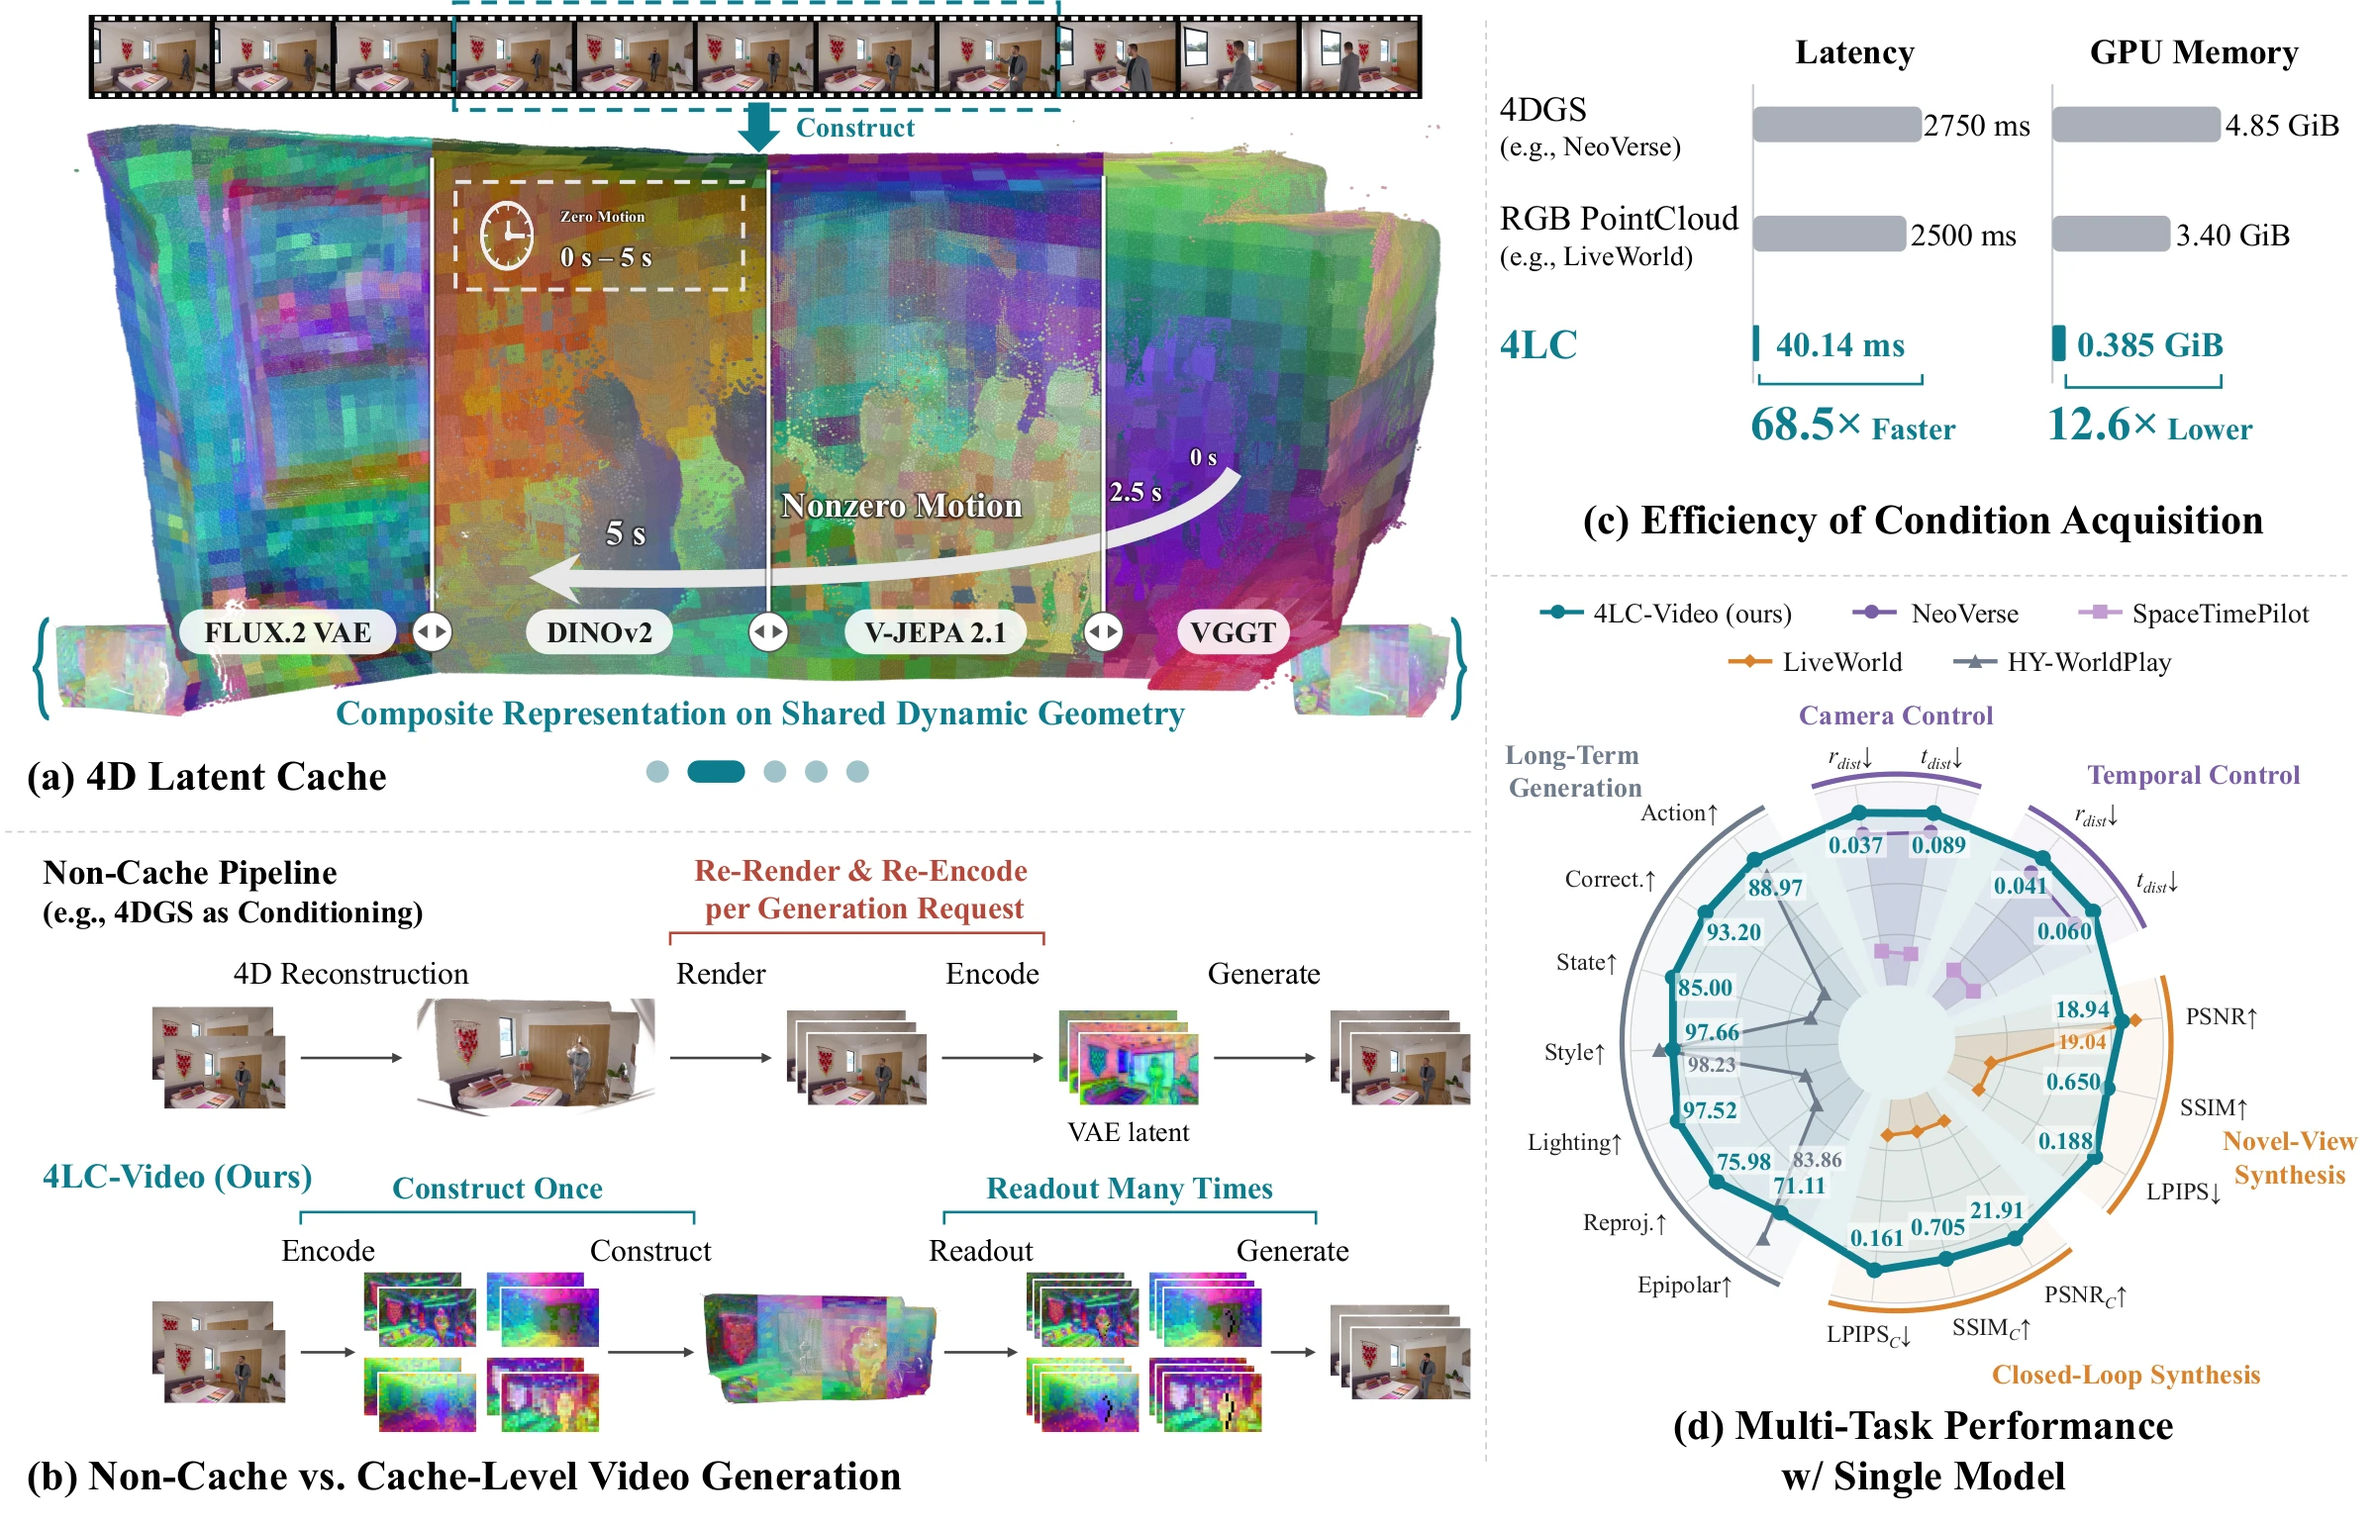
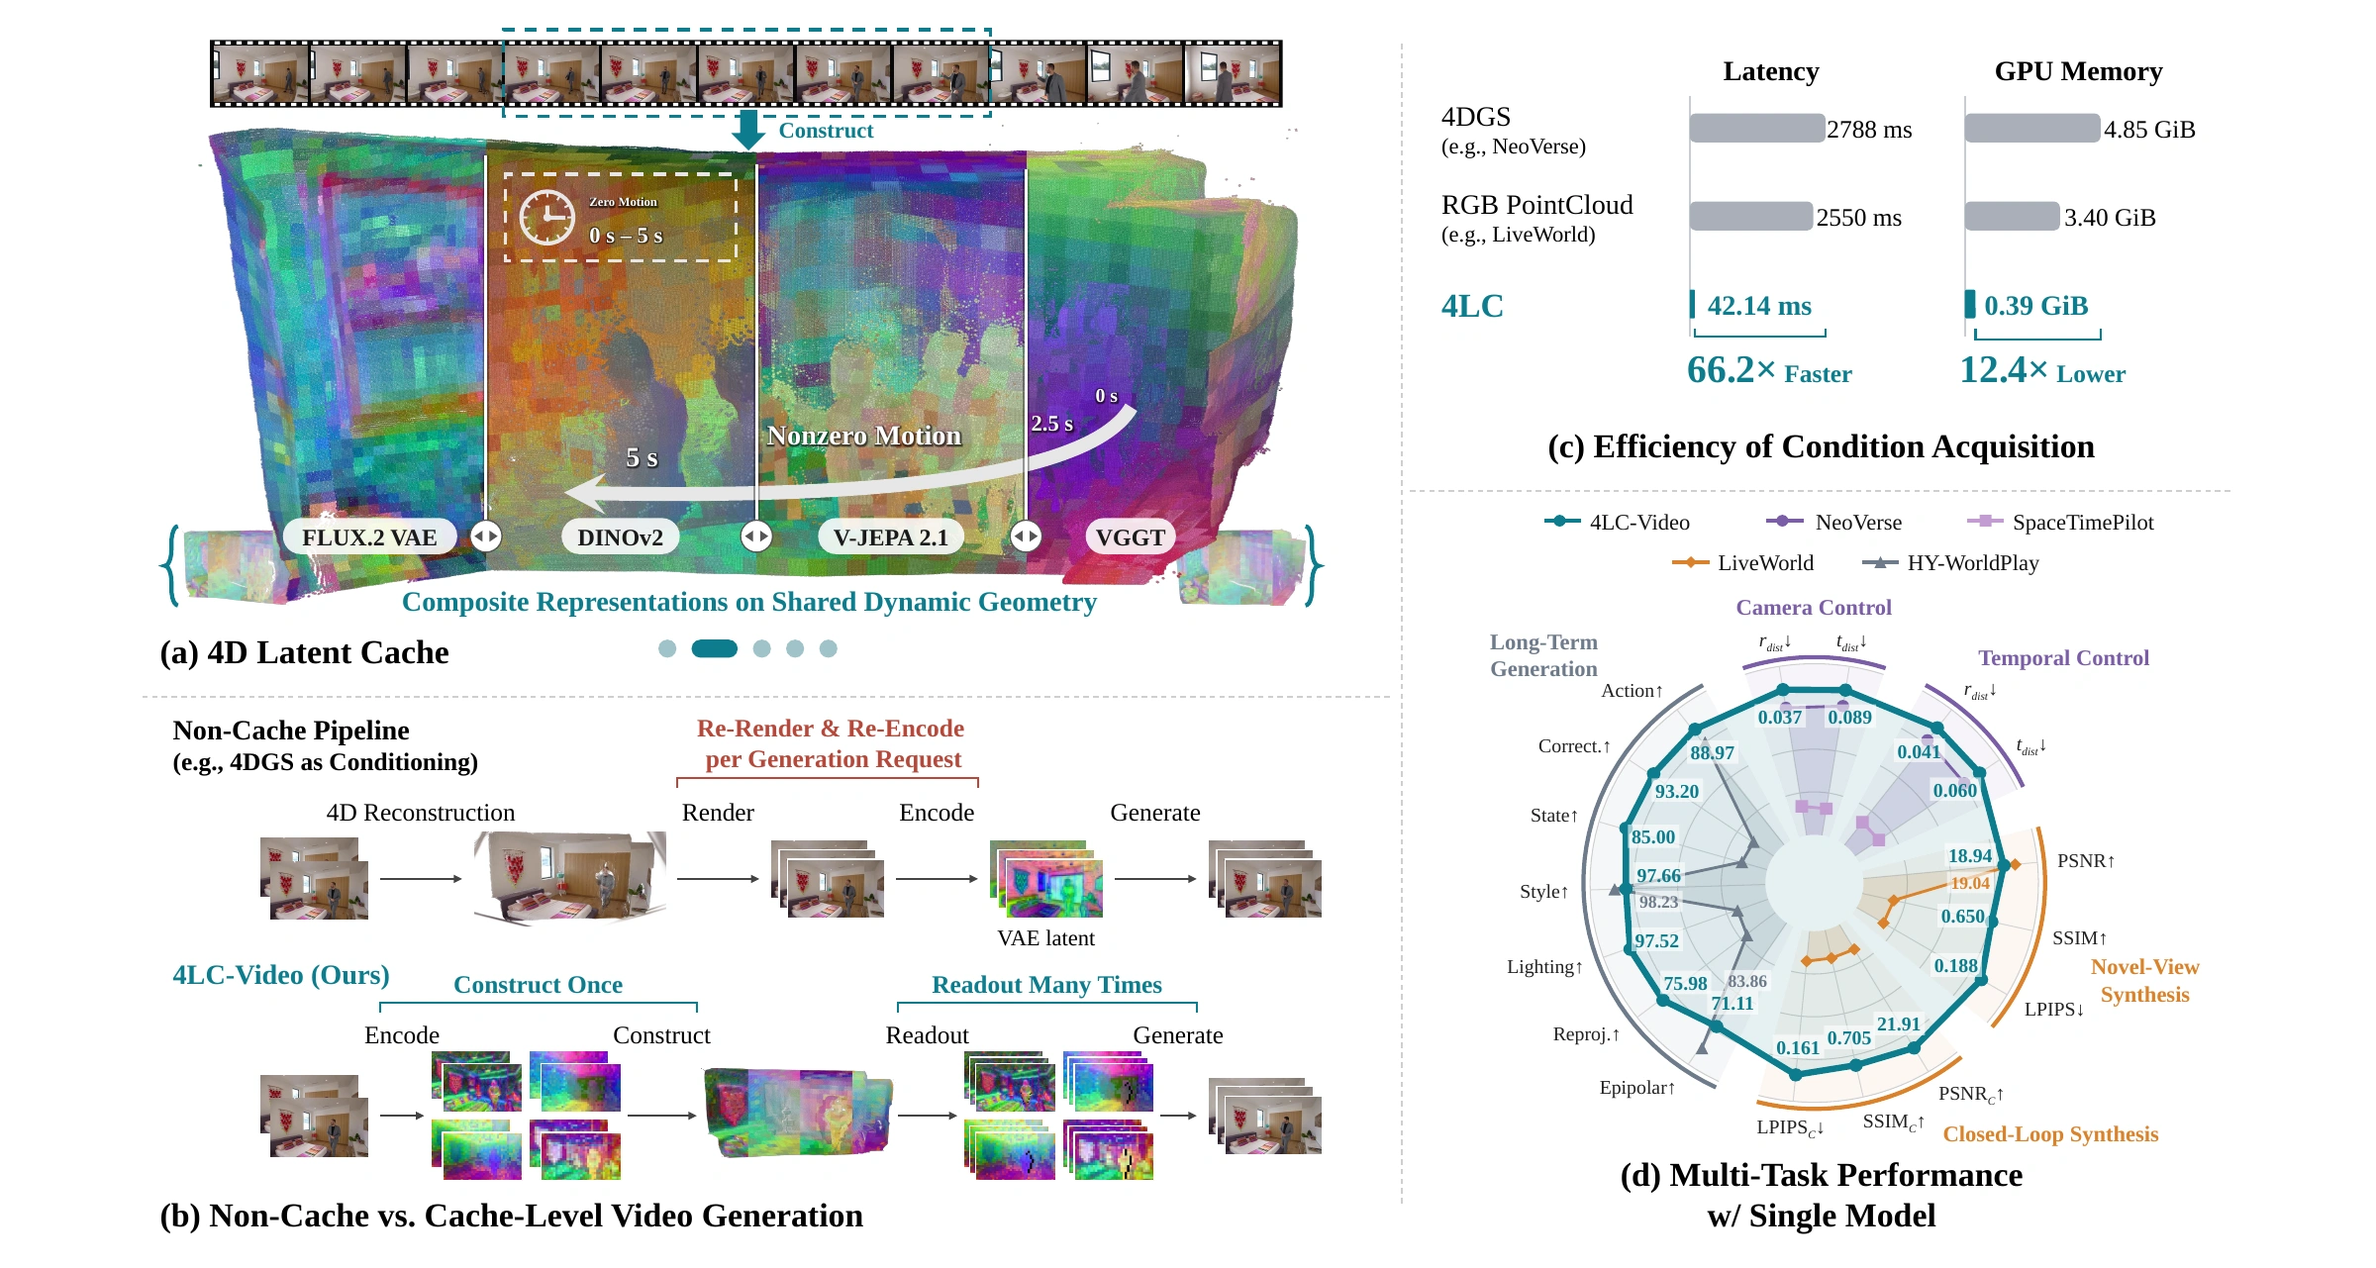
Update 4LC teaser and remove efficiency section

diff --git a/4LC/index.html b/4LC/index.html
@@ -8,7 +8,7 @@
 <link rel="preconnect" href="https://fonts.googleapis.com">
 <link rel="preconnect" href="https://fonts.gstatic.com" crossorigin>
 <link href="https://fonts.googleapis.com/css2?family=DM+Sans:opsz,wght@9..40,400..700&display=swap" rel="stylesheet">
-<link rel="stylesheet" href="style.css?v=1014143000">
+<link rel="stylesheet" href="style.css?v=1126">
 <link rel="icon" type="image/svg+xml" href="4lc.svg">
 </head>
 <body>
@@ -79,27 +79,6 @@
   </div>
 
   <div class="comparison part band" data-part="Comparison">
-  <section id="cost" data-nav="Condition Acquisition">
-    <h2>Condition Acquisition</h2>
-    <div class="cost">
-      <div class="accum">
-        <p class="cost-head">One segment: share of end-to-end generation time spent on condition acquisition</p>
-        <div class="bar-row"><span>NeoVerse</span><div class="bar"><i class="cond" style="--w:14.9%"></i><i class="rest" style="--w:85.1%"></i></div><span>2.75 s of 18.47 s</span></div>
-        <div class="bar-row"><span>4LC</span><div class="bar"><i class="cond" style="--w:0.25%"></i><i class="rest" style="--w:87.4%"></i></div><span>0.04 s of 16.19 s</span></div>
-        <p class="legend"><i class="cond"></i>Condition acquisition<i class="rest"></i>Rest of generation</p>
-      </div>
-      <p class="fact"><strong><small>up to</small><span class="num">68.5</span>&times;</strong>faster condition acquisition</p>
-      <p class="fact"><strong><span class="num">12.6</span>&times;</strong>lower peak GPU memory</p>
-      <div class="accum wide-row">
-        <label class="cost-head" for="segments">Long-horizon: condition acquisition adds up over <output id="seg-n">8</output> segments</label>
-        <input type="range" id="segments" min="1" max="30" value="8" aria-label="Number of segments">
-        <div class="bar-row"><span>NeoVerse</span><div class="bar"><i class="cond" id="acc-nv"></i></div><span id="acc-nv-n"></span></div>
-        <div class="bar-row"><span>4LC</span><div class="bar"><i class="cond" id="acc-ours"></i></div><span id="acc-ours-n"></span></div>
-      </div>
-      <p class="note">All timings: 81-frame segments at 560&times;336 on the same Wan2.1 backbone.</p>
-    </div>
-  </section>
-
   <section id="s-compare" data-nav="Comparison with Baseline">
     <h2>Comparison with Baseline</h2>
     <div class="carousel" id="compare"></div>
@@ -111,7 +90,7 @@
     <h2>Abstract</h2>
     <p class="abstract">For video generation in dynamic world modeling, observed static and dynamic content should be efficiently reused to provide conditions for repeated generation at different times and viewpoints. We introduce 4LC, a 4D latent cache with composite visual representations and a flexible spatiotemporal access interface. As a latent cache, 4LC directly reuses visual representations of static and dynamic content to provide generation conditions, avoiding per-request RGB rendering and re-encoding. Building on 4LC, a single 4LC-Video model handles camera control, temporal control, novel-view synthesis, scene revisits and long-term generation without task-specific fine-tuning.</p>
     <figure class="fig">
-      <img src="assets/method/Fig1-teaser.webp" width="2400" height="1543" loading="lazy" alt="Overview of 4LC: the cache, cache-level generation, condition-acquisition cost and multi-task results">
+      <img src="assets/method/Fig1-teaser.webp?v=1126" width="2400" height="1281" loading="lazy" alt="Overview of 4LC: the cache, cache-level generation, condition-acquisition cost and multi-task results">
       <figcaption><b>Overview of 4LC.</b> <b>(a)</b> Static and dynamic scene content is retained in multiple visual representations for reuse across time and viewpoint requests. <b>(b)</b> Non-cache pipelines render and re-encode a reconstructed scene for each request; 4LC encodes source observations once and reads out the cache for later requests. <b>(c)</b> With the same Wan2.1 VAE, 4LC needs less time and peak GPU memory to acquire conditions than 4DGS and RGB point clouds. <b>(d)</b> A single 4LC-Video model performs well across five video generation tasks.</figcaption>
     </figure>
   </section>
@@ -168,6 +147,6 @@
     <div id="credit-list"></div>
   </details>
 </footer>
-<script src="app.js?v=1014143000"></script>
+<script src="app.js?v=1126"></script>
 </body>
 </html>

diff --git a/4LC/style.css b/4LC/style.css
@@ -10,7 +10,6 @@
   --band: #f2f4f6;  /* grey sections; a hairline marks where each band starts and ends */
   --static: #7d97a8;
   --dynamic: #de933e;
-  --rest: #c5e1db;
   --col: 56rem;
 }
 * { box-sizing: border-box; }
@@ -171,31 +170,6 @@ section > .quad { margin-left: 50%; translate: -50% 0; }  /* wider than the text
 /* Long horizon */
 .long { display: grid; grid-template-columns: minmax(0, 1fr) minmax(0, 2fr); gap: .5rem; margin-bottom: 1rem; align-items: start; }
 
-/* Cost */
-.cost { display: grid; grid-template-columns: minmax(0, 2.2fr) auto auto; gap: 1.6rem 2.5rem; align-items: center; }
-.accum { margin: 0; }
-.accum.wide-row { grid-column: 1 / -1; margin-top: .6rem; }
-.cost-head { display: block; margin: 0 0 .7rem; font-weight: 500; font-size: .9375rem; }
-.accum input { display: block; }
-.accum label { display: block; font-weight: 500; margin-bottom: .3rem; font-size: .9375rem; }
-.accum input { width: min(22rem, 100%); accent-color: var(--brand); margin: 0 0 .8rem; }
-.accum .bar i { transition: width .3s ease; }
-.bar-row { display: grid; grid-template-columns: 5.5rem minmax(0, 1fr) 13rem; gap: .8rem; align-items: center; margin-bottom: .55rem; font-size: .9375rem; }
-.bar-row span:last-child { color: var(--muted); text-align: right; }
-.bar { height: .7rem; background: var(--soft); border-radius: 3px; overflow: hidden; }
-.bar { display: flex; }
-.bar i { display: block; height: 100%; width: var(--w); background: var(--dynamic); transition: width .3s ease; }
-.bar i.cond { min-width: 3px; }
-.bar i.rest { background: var(--rest); }
-.cost.pre .bar i { width: 0; }
-.cost.grow .bar i { transition: width 1.1s cubic-bezier(.2, .7, .1, 1); }
-.legend { margin: .3rem 0 0; color: var(--muted); font-size: .875rem; }
-.legend i { display: inline-block; width: .7em; height: .7em; background: var(--dynamic); border-radius: 2px; margin: 0 .4em 0 0; vertical-align: -.05em; }
-.legend i.rest { background: var(--rest); margin-left: 1.2em; }
-.cost .note { grid-column: 1 / -1; margin: 0; padding-top: 1rem; border-top: 1px solid var(--line); color: var(--muted); font-size: .875rem; }
-.fact { margin: 0; color: var(--muted); font-size: .9375rem; line-height: 1.3; }
-.fact strong { display: block; color: var(--ink); font-size: 2.4rem; font-weight: 600; letter-spacing: -.03em; line-height: 1.05; }
-
 /* Compare */
 .cmp-head { margin: 0 0 .4rem; font-size: 1rem; font-weight: 600; }
 .cmp-head.ours { color: var(--brand); }
@@ -225,10 +199,6 @@ footer p { margin: 0 0 1rem; }
   .grid.two, .mv, .long { grid-template-columns: 1fr; }
   .row.r4 { grid-template-columns: 1fr 1fr; }
   .row.r3 { grid-template-columns: 1fr; }
-  .cost { grid-template-columns: 1fr 1fr; gap: 1.5rem; }
-  .cost .accum { grid-column: 1 / -1; }
-  .bar-row { grid-template-columns: 4.5rem minmax(0, 1fr); }
-  .bar-row span:last-child { grid-column: 2; text-align: left; margin-top: -.3rem; }
 }
 
 /* Carousel: one example block per slide, neighbours peek in at the sides */
@@ -321,7 +291,6 @@ footer p { margin: 0 0 1rem; }
 video.montage { border-radius: 4px; background: #fff; }
 
 /* Inside grey bands */
-.band .bar { background: #e6e9ed; }
 .band video, .band .still { background: #e9ecef; }
 .band pre { background: #fff; }
 
@@ -422,7 +391,6 @@ h2 + .fig { margin-top: 1.6rem; }
 @media (max-width: 959px) {
   .duo-fig { order: -1; }
 }
-.fact strong small { font-size: .4em; font-weight: 500; color: var(--muted); margin-right: .3em; letter-spacing: 0; }
 
 /* Blocks a little wider than the text column (like the carousels): time columns, image wall */
 :root { --wide: min(64rem, calc(100vw - 2rem)); }

diff --git a/4LC/app.js b/4LC/app.js
@@ -349,19 +349,6 @@ fetch("content.json", { cache: "no-cache" }).then((r) => r.json()).then((c) => {
   // The main video waits on its first frame until the viewer presses play.
   if (!t.hidden) { t.muted = true; t.poster = bust(c.teaser.poster); t.src = bust(c.teaser.video); }
 
-  // Long-horizon: condition-acquisition time per segment from the paper (NeoVerse 2.75 s, 4LC 0.04 s),
-  // times the number of segments; NeoVerse pays it again for every segment.
-  const seg = $("segments"), nv = 2.75, ours = 0.04;
-  const accum = () => {
-    const k = +seg.value, max = +seg.max * nv;
-    $("seg-n").value = k;
-    $("acc-nv").style.setProperty("--w", (k * nv / max) * 100 + "%");
-    $("acc-ours").style.setProperty("--w", (k * ours / max) * 100 + "%");
-    $("acc-nv-n").textContent = `${(k * nv).toFixed(1)} s condition acquisition`;
-    $("acc-ours-n").textContent = `${(k * ours).toFixed(2)} s condition acquisition`;
-  };
-  seg.addEventListener("input", accum); accum();
-
   reps = c.readout_reps || [{ key: "rgb", label: "Cache", file: "condition.mp4" }];
   const ro = $("readout");
   ro.before(repTabs(reps, (k) => { rep = k; wipes.forEach((f) => f()); }));
@@ -686,34 +673,13 @@ document.querySelectorAll(".bib").forEach(box => {
   });
 });
 
-// Motion: sections fade up once as they come into view; the condition-acquisition bars grow and
-// the two factors count up; the 4LC mark's outlines drift apart as the first screen scrolls away.
+// Motion: sections fade up once; the 4LC mark drifts apart as the first screen scrolls away.
 if (!RM) {
   const rise = new IntersectionObserver((es) => {
     // Shown once in view, or once scrolled past (a fast scroll or a jump can skip the moment it enters).
     for (const e of es) if (e.isIntersecting || e.boundingClientRect.top < 0) { e.target.classList.add("in"); rise.unobserve(e.target); }
   }, { rootMargin: "0px 0px -8% 0px" });
   document.querySelectorAll("main section").forEach((s) => { s.classList.add("rise"); rise.observe(s); });
-
-  const cost = document.querySelector(".cost");
-  if (cost) {
-    const nums = [...cost.querySelectorAll(".num")].map((n) => [n, parseFloat(n.textContent), (n.textContent.split(".")[1] || "").length]);
-    cost.classList.add("pre");
-    nums.forEach(([n, , d]) => { n.textContent = (0).toFixed(d); });
-    const go = new IntersectionObserver((es) => {
-      if (!es.some((e) => e.isIntersecting || e.boundingClientRect.top < 0)) return;
-      go.disconnect();
-      cost.classList.add("grow"); cost.classList.remove("pre");
-      setTimeout(() => cost.classList.remove("grow"), 1400);
-      const t0 = performance.now(), dur = 1200;
-      (function count(t) {
-        const k = Math.max(0, Math.min(1, (t - t0) / dur)), ease = 1 - Math.pow(1 - k, 3);
-        nums.forEach(([n, to, d]) => { n.textContent = (to * ease).toFixed(d); });
-        if (k < 1) requestAnimationFrame(count);
-      })(t0);
-    }, { threshold: 0.35 });
-    go.observe(cost);
-  }
 
   const hero = document.querySelector(".hero");
   let queued = false;

diff --git a/4LC/README.md b/4LC/README.md
@@ -1,8 +1,32 @@
-# 4LC Project Page
+# 4LC 项目主页
 
-Static project page for **4LC: 4D Latent Cache for Efficient Conditioning in Dynamic World Modeling**,
-served at https://zgca-hmi-lab.github.io/4LC/.
+主页源码。页面（`index.html`、`style.css`、`app.js`）只读 `content.json` 和 `media/`。素材槽位、放入规则和本地预览见 [media.md](media.md)，选材与轨迹规则见 [material.md](material.md)，零散想法记在 [notes.md](notes.md)。
 
-This folder is generated from the `website/` directory of the 4LC repository by
-`website/tools/build.py`; edit the source there and re-export instead of editing these files.
-Input videos and images are credited on the page (Sources & Credits); all results are generated by 4LC.
+## 页面结构
+
+| 板块 | 内容 |
+|---|---|
+| From Cache Readout to Video | Cache 各表征的读出视频与生成结果 |
+| Camera Control | 推进、后拉、横移、升降、摇镜、俯仰、环绕、变焦、滑动变焦、跟拍、防抖，另有少量组合镜头 |
+| Time Control | 时间静止、时间倒流、先走后停；相机都沿原视频轨迹走 |
+| Single View to Multiple Views | 驾驶、机器人第一视角、第一人称；每个新机位是原轨迹加一个固定偏移，各机位共用同一段场景时间 |
+| Image to Video | 单张图片生成一段，可以带人物或动物的动作 |
+| Image to World | 单张图片起步的长程探索与重访，每段生成后写回 Cache |
+| Video Editing | 转场、换背景、改类别、删除；编辑前后用同一条相机轨迹同步播放 |
+| Comparison with NeoVerse | 同一输入、同一轨迹，对比生成效果 |
+
+
+## 素材与生成
+
+- 素材库：`outputs/website-library/`，每类任务有 `traj.yaml`、`shots.tsv`、`reserve.tsv`、`reject.tsv`，字段和流程见该目录的 README，筛选结论在 `shortlist.md`。
+- 生成脚本：`tools/generation/`。
+- 页面内容：`python website/tools/content.py` 生成 `content.json`；Image to World 的拼图由 `tools/montage.py` 生成。
+
+## 待办：跨 Cache 场景组合
+
+把一个视频的运动主体放进另一个视频的场景，再沿新视角生成。目前只有单个 Cache 内的 CacheEntry 组合。
+
+- [ ] 设计两个独立 Cache 之间的组合流程。
+- [ ] 明确背景 Cache 与主体 Cache 的坐标、尺度、朝向和时间对齐，以及主体的几何、运动和各表征如何随变换保持对应。
+- [ ] 明确主体落点、地面接触和与背景的深度遮挡。
+- [ ] 用"静态场景探索视频＋动态主体视频"跑通，生成多个新视角。
